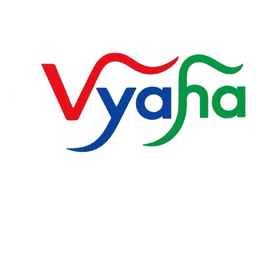
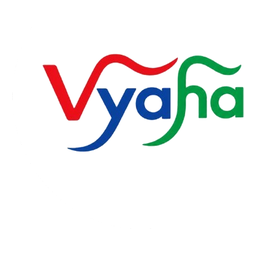
Zoom notification wordmarks and use a white customer accent.
Enlarge Vyaha silhouettes, optically center delivery/partner glyphs, and switch the customer notification color to white.

diff --git a/backend/src/services/notification.service.ts b/backend/src/services/notification.service.ts
@@ -74,7 +74,7 @@ const INVALID_TOKEN_CODES = new Set([
 
 const ANDROID_NOTIFICATION_CHANNEL_ID = "vyaha_alerts";
 const ANDROID_NOTIFICATION_COLORS: Record<NotificationApp, string> = {
-  customer: "#0F9D58",
+  customer: "#FFFFFF",
   delivery: "#0F9D58",
   partner: "#174EA6"
 };

diff --git a/scripts/make-notification-icons.py b/scripts/make-notification-icons.py
@@ -12,12 +12,14 @@ from __future__ import annotations
 
 from pathlib import Path
 
-from PIL import Image, ImageFilter
+from PIL import Image, ImageDraw, ImageFilter
 
 ROOT = Path(__file__).resolve().parents[1]
 SMALL_SIZE = 96
 LARGE_SIZE = 256
-PAD_RATIO = 0.14
+# Keep enough margin for circular OEM crops, but zoom wordmark for legibility.
+PAD_RATIO = 0.06
+PREVIEW_DIR = ROOT / "apps/_notification-icon-previews"
 
 APPS = [
     {
@@ -26,6 +28,10 @@ APPS = [
         "large_src": ROOT / "apps/customer-app/assets/icon.png",
         "small_dest": ROOT / "apps/customer-app/assets/notification-icon.png",
         "large_dest": ROOT / "apps/customer-app/assets/notification-large-icon.png",
+        # White notification circle (OEM fills with color; dark shade shows glyph).
+        "preview_color": "#FFFFFF",
+        "preview_glyph": "#1A1A1A",
+        "y_nudge_ratio": 0.0,
     },
     {
         "name": "partner",
@@ -33,6 +39,10 @@ APPS = [
         "large_src": ROOT / "apps/partner-app/assets/vyaha-partner-app-icon.png",
         "small_dest": ROOT / "apps/partner-app/assets/notification-icon.png",
         "large_dest": ROOT / "apps/partner-app/assets/notification-large-icon.png",
+        "preview_color": "#174EA6",
+        "preview_glyph": "#FFFFFF",
+        # Descenders make the wordmark look high; nudge slightly toward optical middle.
+        "y_nudge_ratio": 0.02,
     },
     {
         "name": "delivery",
@@ -40,6 +50,9 @@ APPS = [
         "large_src": ROOT / "apps/delivery-app/assets/vyaha-delivery-app-icon.png",
         "small_dest": ROOT / "apps/delivery-app/assets/notification-icon.png",
         "large_dest": ROOT / "apps/delivery-app/assets/notification-large-icon.png",
+        "preview_color": "#0F9D58",
+        "preview_glyph": "#FFFFFF",
+        "y_nudge_ratio": 0.035,
     },
 ]
 
@@ -89,12 +102,17 @@ def extract_mask(im: Image.Image) -> Image.Image:
     return mask.filter(ImageFilter.SMOOTH)
 
 
-def fit_on_square(mask: Image.Image, size: int) -> Image.Image:
+def fit_on_square(
+    mask: Image.Image,
+    size: int,
+    pad_ratio: float = PAD_RATIO,
+    y_nudge_ratio: float = 0.0,
+) -> Image.Image:
     bbox = mask.point(lambda value: 255 if value > 16 else 0).getbbox()
     if not bbox:
         raise ValueError("No logo pixels found for notification icon")
     cropped = mask.crop(bbox)
-    pad = int(size * PAD_RATIO)
+    pad = int(size * pad_ratio)
     inner = max(1, size - pad * 2)
     scale = min(inner / cropped.width, inner / cropped.height)
     resized = cropped.resize(
@@ -102,12 +120,15 @@ def fit_on_square(mask: Image.Image, size: int) -> Image.Image:
         Image.LANCZOS,
     )
     canvas = Image.new("L", (size, size), 0)
-    canvas.paste(resized, ((size - resized.width) // 2, (size - resized.height) // 2))
+    x = (size - resized.width) // 2
+    y = (size - resized.height) // 2 + int(round(size * y_nudge_ratio))
+    y = max(0, min(size - resized.height, y))
+    canvas.paste(resized, (x, y))
     return canvas
 
 
-def write_small_icon(src: Path, dest: Path) -> None:
-    mask = fit_on_square(extract_mask(to_rgba(src)), SMALL_SIZE)
+def write_small_icon(src: Path, dest: Path, y_nudge_ratio: float = 0.0) -> None:
+    mask = fit_on_square(extract_mask(to_rgba(src)), SMALL_SIZE, y_nudge_ratio=y_nudge_ratio)
     out = Image.new("RGBA", (SMALL_SIZE, SMALL_SIZE), (0, 0, 0, 0))
     white = Image.new("RGBA", (SMALL_SIZE, SMALL_SIZE), (255, 255, 255, 255))
     out.paste(white, (0, 0), mask)
@@ -115,17 +136,14 @@ def write_small_icon(src: Path, dest: Path) -> None:
     out.save(dest, "PNG", optimize=True)
 
 
-def write_large_icon(src: Path, dest: Path) -> None:
+def write_large_icon(src: Path, dest: Path, y_nudge_ratio: float = 0.0) -> None:
     im = to_rgba(src)
+    pad_ratio = 0.05
     if corners_look_white(im):
-        fitted = Image.new("RGBA", (LARGE_SIZE, LARGE_SIZE), (255, 255, 255, 255))
-        scaled = im.resize((LARGE_SIZE, LARGE_SIZE), Image.LANCZOS)
-        fitted.paste(scaled, (0, 0))
-    else:
         mask = extract_mask(im)
         bbox = mask.point(lambda value: 255 if value > 16 else 0).getbbox()
         logo = im.crop(bbox) if bbox else im
-        pad = int(LARGE_SIZE * 0.08)
+        pad = int(LARGE_SIZE * pad_ratio)
         inner = max(1, LARGE_SIZE - pad * 2)
         scale = min(inner / logo.width, inner / logo.height)
         resized = logo.resize(
@@ -133,22 +151,77 @@ def write_large_icon(src: Path, dest: Path) -> None:
             Image.LANCZOS,
         )
         fitted = Image.new("RGBA", (LARGE_SIZE, LARGE_SIZE), (255, 255, 255, 255))
-        fitted.paste(
-            resized,
-            ((LARGE_SIZE - resized.width) // 2, (LARGE_SIZE - resized.height) // 2),
-            resized,
+        x = (LARGE_SIZE - resized.width) // 2
+        y = (LARGE_SIZE - resized.height) // 2 + int(round(LARGE_SIZE * y_nudge_ratio))
+        y = max(0, min(LARGE_SIZE - resized.height, y))
+        fitted.paste(resized, (x, y), resized)
+    else:
+        mask = extract_mask(im)
+        bbox = mask.point(lambda value: 255 if value > 16 else 0).getbbox()
+        logo = im.crop(bbox) if bbox else im
+        pad = int(LARGE_SIZE * pad_ratio)
+        inner = max(1, LARGE_SIZE - pad * 2)
+        scale = min(inner / logo.width, inner / logo.height)
+        resized = logo.resize(
+            (max(1, round(logo.width * scale)), max(1, round(logo.height * scale))),
+            Image.LANCZOS,
         )
+        fitted = Image.new("RGBA", (LARGE_SIZE, LARGE_SIZE), (255, 255, 255, 255))
+        x = (LARGE_SIZE - resized.width) // 2
+        y = (LARGE_SIZE - resized.height) // 2 + int(round(LARGE_SIZE * y_nudge_ratio))
+        y = max(0, min(LARGE_SIZE - resized.height, y))
+        fitted.paste(resized, (x, y), resized)
     dest.parent.mkdir(parents=True, exist_ok=True)
     fitted.save(dest, "PNG", optimize=True)
 
 
+def hex_to_rgb(value: str) -> tuple[int, int, int]:
+    raw = value.lstrip("#")
+    return int(raw[0:2], 16), int(raw[2:4], 16), int(raw[4:6], 16)
+
+
+def write_preview(small_path: Path, app: dict) -> None:
+    PREVIEW_DIR.mkdir(parents=True, exist_ok=True)
+    size = 256
+    bg = Image.new("RGBA", (size, size), (20, 20, 20, 255))
+    circle = Image.new("RGBA", (size, size), (0, 0, 0, 0))
+    draw = ImageDraw.Draw(circle)
+    draw.ellipse((8, 8, size - 9, size - 9), fill=hex_to_rgb(app["preview_color"]) + (255,))
+    bg.alpha_composite(circle)
+
+    small = Image.open(small_path).convert("RGBA")
+    # Recreate glyph in preview color (simulates OEM white-on-color / dark-on-white).
+    mask = small.split()[-1]
+    glyph = Image.new("RGBA", small.size, hex_to_rgb(app["preview_glyph"]) + (255,))
+    glyph.putalpha(mask)
+    # Match the real notification crop: icon fills most of the circle.
+    scaled = glyph.resize((size - 20, size - 20), Image.LANCZOS)
+    bg.paste(scaled, ((size - scaled.width) // 2, (size - scaled.height) // 2), scaled)
+
+    name = app["name"]
+    if name == "customer":
+        out = PREVIEW_DIR / "vyaha-notification-icon.png"
+        large_out = PREVIEW_DIR / "vyaha-large-icon.png"
+    elif name == "partner":
+        out = PREVIEW_DIR / "vyaha-partner-notification-icon.png"
+        large_out = PREVIEW_DIR / "vyaha-partner-large-icon.png"
+    else:
+        out = PREVIEW_DIR / "vyaha-delivery-notification-icon.png"
+        large_out = PREVIEW_DIR / "vyaha-delivery-large-icon.png"
+
+    bg.save(out, "PNG", optimize=True)
+    Image.open(app["large_dest"]).convert("RGBA").save(large_out, "PNG", optimize=True)
+
+
 def main() -> None:
     for app in APPS:
-        write_small_icon(app["small_src"], app["small_dest"])
-        write_large_icon(app["large_src"], app["large_dest"])
+        nudge = float(app.get("y_nudge_ratio") or 0.0)
+        write_small_icon(app["small_src"], app["small_dest"], y_nudge_ratio=nudge)
+        write_large_icon(app["large_src"], app["large_dest"], y_nudge_ratio=nudge)
+        write_preview(app["small_dest"], app)
         small = Image.open(app["small_dest"])
         print(
-            f"{app['name']}: small {small.size} {small.mode} -> {app['small_dest'].relative_to(ROOT)}"
+            f"{app['name']}: small {small.size} {small.mode} nudge={nudge} -> {app['small_dest'].relative_to(ROOT)}"
         )
         print(f"{app['name']}: large -> {app['large_dest'].relative_to(ROOT)}")
 
